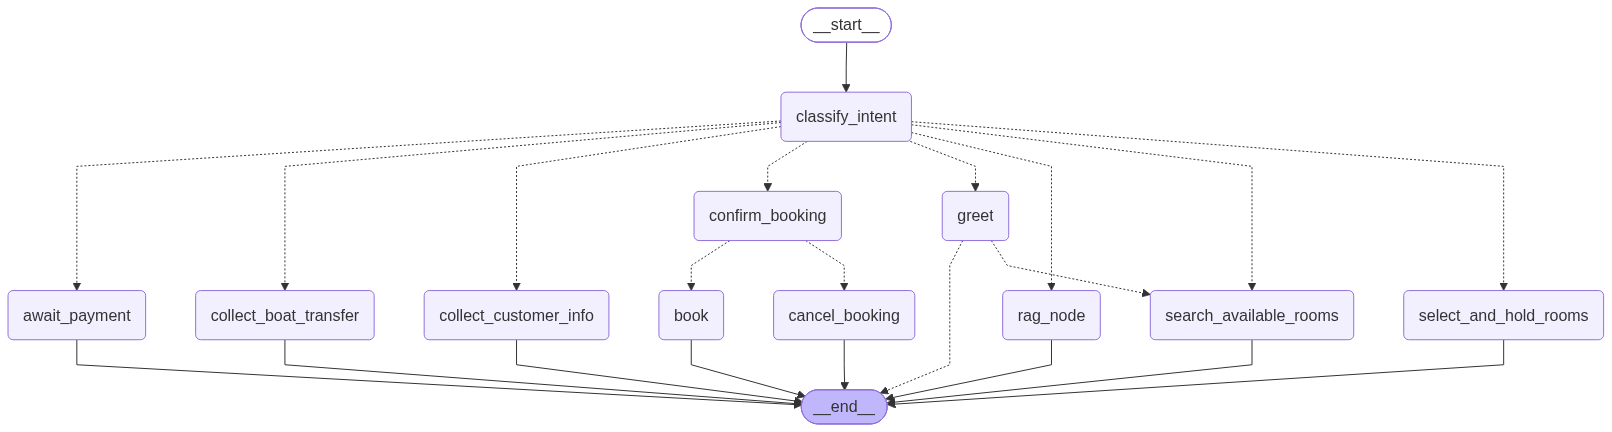
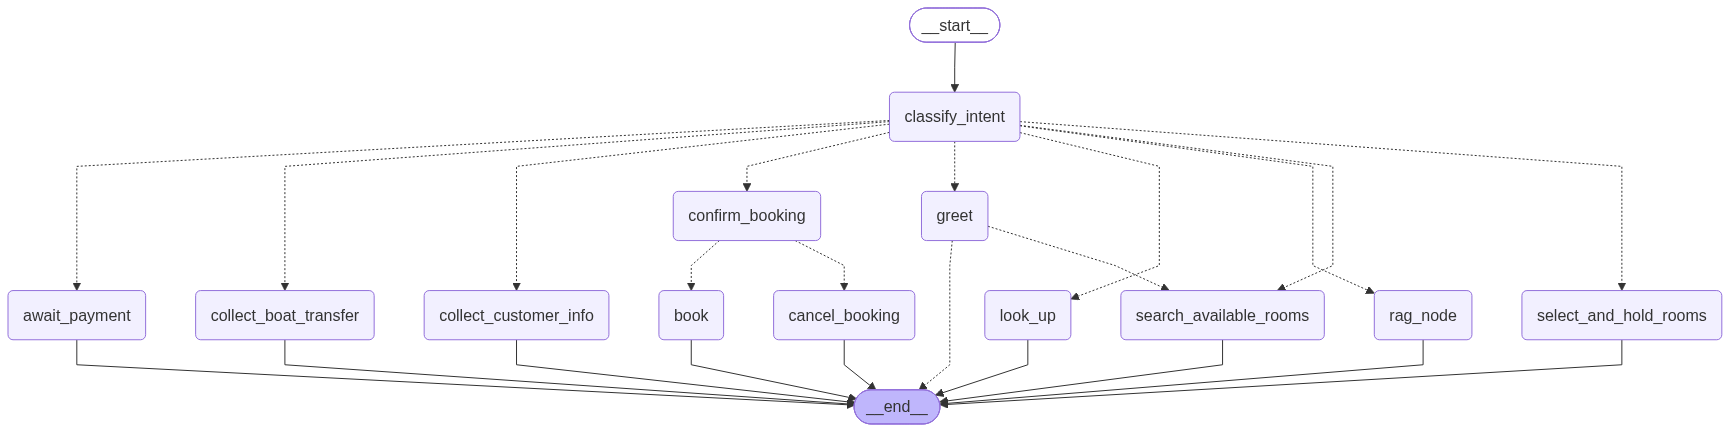
feat: Implement booking lookup functionality and update state management for look_up intent

diff --git a/agent/nodes.py b/agent/nodes.py
@@ -32,7 +32,7 @@ django.setup()
 
 from bookings.services.availability import get_room_types_availability, get_room_type_basic_info, bulk_lock_room_type
 from bookings.services.lock import release_holder_locks
-from bookings.services.booking import create_online_booking
+from bookings.services.booking import create_online_booking, booking_look_up
 from bookings.exceptions import RedisUnavailable, RoomTypeNotFoundError
 from bookings.models import RoomType
 from paymongo.views import create_checkout_link
@@ -42,7 +42,7 @@ from .utils import release_locks, get_room_type_availability, get_room_types, ge
 from agent.states import (
     BookingState, BaseStageInput, DateAndGuestCountInput, SelectedRoomsInput, 
     GuestInfo, AvailBoat, ConfirmBooking, RoomTypeDetails, InitalGreetingState, RoomCacheSchema,
-    DateAndGuestCountInputWithUserInfo, IntentClassification
+    DateAndGuestCountInputWithUserInfo, IntentClassification, BookingLookUp
 )
 from datetime import datetime 
 from langsmith import traceable
@@ -767,4 +767,76 @@ def cancel_booking(state: BookingState):
                 content="Your booking has been cancelled. Please let us know if you'd like to start over or make changes to your stay."
             )
         ]
+    }
+
+@traceable
+def look_up_booking(state: BookingState):
+    last_message = state['messages'][-1]
+    user_input = getattr(last_message, "content", str(last_message))
+
+    result = llm.with_structured_output(BookingLookUp).invoke([
+        {
+            "role": "system",
+            "content": (
+                "Extract email and reference id for booking lookup"
+            )
+        },
+        {"role": "user", "content": user_input} 
+    ])
+
+    email = result.email
+    reference_id = result.reference_id
+
+    print(email == None)
+    print(reference_id == None)
+    
+    missing = []
+    if not email: missing.append("email")
+    if not reference_id: missing.append("reference id")
+
+    if missing:
+        msg = f"To check booking, please provide: {', '.join(missing)}."
+        return {
+            "messages": [AIMessage(content=msg)],
+            "stage": 'look_up'
+        }
+
+    booking = booking_look_up(email=email, reference_id=reference_id)
+
+
+    if not booking:
+        msg = f"Booking with reference id: {reference_id} and email: {email} not found"
+        return {
+            "messages": [AIMessage(content=msg)],
+            "stage": "greet"
+        }
+
+    
+    msg = (
+        f"### Reservation Details (Ref: **{reference_id}**)\n\n"
+        "#### Customer Information\n"
+        f"* **Name:** {booking.customer_bill.customer.full_name}\n"
+        f"* **Status:** `{booking.status}`\n\n"
+        
+        "#### Stay Information\n"
+        f"* **Room Type:** {booking.room_type.name if booking.room_type else 'N/A'} "
+        f"(Room: {booking.room.room_number if booking.room else 'Not Assigned'})\n"
+        f"* **Check-In:** `{booking.check_in}`\n"
+        f"* **Check-Out:** `{booking.check_out}`\n"
+        f"* **Nights:** {booking.number_of_nights}\n\n"
+        
+        "#### Guest Count\n"
+        f"* **Adults:** {booking.adult_count}\n"
+        f"* **Children:** {booking.children_count}\n"
+        f"* **Extra Guests:** {booking.extra_guest}\n"
+        f"* **Total Guests:** {booking.number_of_guests}\n\n"
+        
+        "#### Financial Summary\n"
+        f"* **Total Cost:** ₱{booking.total_cost}\n\n"
+        "---\n"
+        f"*Generated at: {booking.created_at.strftime('%Y-%m-%d %H:%M') if booking.created_at else 'N/A'}*"
+    )
+
+    return {
+        "messages": [AIMessage(content=msg)],
     }

diff --git a/agent/states.py b/agent/states.py
@@ -21,10 +21,10 @@ from langchain_core.documents import Document
 
 class BookingState(TypedDict):
     messages: Annotated[list[AnyMessage], add_messages]
-    intent: Literal["book", "greet", "rag_node"] = "greet"
+    intent: Literal["book", "greet", "look_up", "rag_node"] = "greet"
     rag_answer: str
     
-    stage: Literal["greet", "search_available_rooms", "select_and_hold_rooms", "collect_customer_info", "collect_boat_transfer", "confirm_booking", "await_payment"] = "greet"
+    stage: Literal["greet", "search_available_rooms", "select_and_hold_rooms", "collect_customer_info", "collect_boat_transfer", "confirm_booking", "await_payment", "look_up"] = "greet"
     billing_id: int | None = None
     check_in: date | None = None
     check_out: date | None = None
@@ -52,11 +52,12 @@ class BookingState(TypedDict):
     room_types_to_display: list[int] = []
 
 class IntentClassification(BaseModel):                                                                                                                                                                                      
-    intent: Literal["book", "greet", "rag_node"] = Field(                                                                                                                                                               
+    intent: Literal["book", "greet", "look_up", "rag_node", ""] = Field(                                                                                                                                                               
     description=(                                                                                                                                                                                                       
         "'book' if user wants to reserve, check dates/availability, or provided dates/guests; "                                                                                                                         
         "'rag_node' if user is asking about policies or any FaQ; "                                                                                                                            
-        "'greet' if user is just saying hello or asking general assistance."                                                                                                                                            
+        "'greet' if user is just saying hello or asking general assistance."  
+        "'look_up' if user wants to view their existing booking"                                                                                                                                          
             )                                                                                                                                                                                                                   
         )    
 
@@ -132,3 +133,7 @@ class BoatTime(BaseModel):
 
 class ConfirmBooking(BaseStageInput):
     confirmed: bool = False
+
+class BookingLookUp(BaseModel):
+    email: str | None = None
+    reference_id: str | None = None

diff --git a/agent/agent2.py b/agent/agent2.py
@@ -33,7 +33,7 @@ from agent.states import BookingState
 from agent.nodes import (
     select_and_hold_rooms, search_available_rooms, collect_boat_transfer, 
     collect_customer_info, greet_user, cancel_booking,
-    confirm_booking, book, route_booking_confirmation, await_payment, classify_intent
+    confirm_booking, book, route_booking_confirmation, await_payment, classify_intent, look_up_booking
 )
 
 from agent.rag.agent import rag_node
@@ -76,7 +76,10 @@ def route_greet(state: BookingState):
 def route_classified_intent(state: BookingState):                                                                                                                                                                           
     intent = state.get("intent")                                                                                                                                                                                            
     if intent == "rag_node":                                                                                                                                                                                          
-        return "rag_node"    
+        return "rag_node"  
+
+    if intent == "look_up":
+        return "look_up"  
                                                                                                                                                                                                
     return state.get("stage") or "greet"                                                                                                                                                                                                          
 
@@ -84,6 +87,7 @@ def route_classified_intent(state: BookingState):
 graph = StateGraph(BookingState)
 
 graph.add_node('classify_intent', classify_intent)
+graph.add_node('look_up', look_up_booking)
 graph.add_node("rag_node", rag_node)
 graph.add_node('greet', greet_user)
 graph.add_node('search_available_rooms', search_available_rooms)
@@ -108,6 +112,7 @@ graph.add_conditional_edges(
         'collect_boat_transfer': 'collect_boat_transfer',
         'confirm_booking': 'confirm_booking',
         'await_payment': 'await_payment',
+        'look_up': 'look_up',
     }
 )
 graph.add_conditional_edges(
@@ -121,6 +126,7 @@ graph.add_conditional_edges(
 graph.add_edge('rag_node', END)
 graph.add_edge('greet', END)
 graph.add_edge('search_available_rooms', END)
+graph.add_edge('look_up', END)
 graph.add_edge('select_and_hold_rooms', END)
 graph.add_edge("collect_customer_info", END)
 graph.add_edge("collect_boat_transfer", END)
